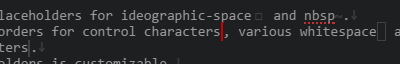
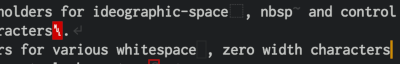
Optimize of startup time. Remove invisible characters sample from README. Fixed an issue where border disable was not reflected at startup.

diff --git a/lib/text-buffer-patch-method.js b/lib/text-buffer-patch-method.js
@@ -73,6 +73,7 @@ module.exports={
 				    .indexOf(className)==-1));
 			}
 		}
+		var class2characters={};
 		for (var character in this.invisibles)
 		{
 			this.invisibles[character].classes.sort();
@@ -89,8 +90,37 @@ module.exports={
 					break;
 				}
 			}
-			this.invisibles[character].id=index;
+			this.invisibles[character].flags=index;
 			this.classes[index]=classes;
+			
+			for (var i=0;i<=this.invisibles[character].classes.length-1;i++)
+			{
+				var class1=this.invisibles[character].classes[i];
+				if (class2characters[class1]==null)
+				{
+					class2characters[class1]=[];
+				}
+				class2characters[class1].push(character);
+			}
+		}
+		
+		var stylePath=require.resolve(
+		    "./text-buffer-patch-method.less");
+		this.subscription.add(
+		    atom.styles.addStyleSheet(
+		        atom.themes.loadStylesheet(stylePath,true),
+		        { sourcePath: stylePath })
+		);
+		var styleSheet;
+		for (var i=document.styleSheets.length-1;i>=0;i--)
+		{
+			if (document.styleSheets[i].ownerNode!=null &&
+			    document.styleSheets[i].ownerNode.sourcePath==stylePath)
+			{
+				styleSheet=document.styleSheets[i];
+				
+				break;
+			}
 		}
 		
 		var refresher=() => {};
@@ -127,15 +157,11 @@ module.exports={
 				var updater=() => {
 					var placeholder=atom.config.get(keyPath).substring(0,1);
 					
-					for (var character in this.invisibles)
+					for (var character of class2characters[config.content])
 					{
-						if (this.invisibles[character].classes.indexOf(
-						    config.content)!=-1)
-						{
-							this.invisibles[character].placeholder=
-							    (placeholder!=character && placeholder!=" "
-							    ? placeholder : null);
-						}
+						this.invisibles[character].placeholder=
+						    (placeholder!=character && placeholder!=" "
+						    ? placeholder : null);
 					}
 					
 					refresher();
@@ -163,15 +189,12 @@ module.exports={
 						var placeholder=atom.config.get(keyPath)
 						    .split(/, /g)[i];
 						
-						for (var character in this.invisibles)
+						for (var character of 
+						     (class2characters[config.contents[i]] || []))
 						{
-							if (this.invisibles[character].classes.indexOf(
-							    config.contents[i])!=-1)
-							{
-								this.invisibles[character].placeholder=
-								    (placeholder!=character && placeholder!=" "
-								    ? placeholder : null);
-							}
+							this.invisibles[character].placeholder=
+							    (placeholder!=character && placeholder!=" "
+							    ? placeholder : null);
 						}
 					}
 					
@@ -223,20 +246,17 @@ module.exports={
 			if (config.border!=null)
 			{
 				var updater=() => {
-					for (var i=document.styleSheets.length-1;i>=0;i--)
+					for (var i=0;i<=styleSheet.cssRules.length-1;i++)
 					{
-						for (var j=0;j<=document.styleSheets[i]
-						                        .cssRules.length-1;j++)
+						var cssRule=styleSheet.cssRules[i];
+						if (cssRule.selectorText==
+						    "atom-text-editor.editor "+
+						    ".invisible-character."+config.border)
 						{
-							var cssRule=document.styleSheets[i].cssRules[j];
-							if (cssRule.selectorText=="atom-text-editor.editor "+
-							    ".invisible-character."+config.border)
-							{
-								cssRule.style["borderStyle"]=
-								    (atom.config.get(keyPath) ? "solid" : "none");
-								
-								return;
-							}
+							cssRule.style["borderStyle"]=
+							    (atom.config.get(keyPath) ? "solid" : "none");
+							
+							return;
 						}
 					}
 				};
@@ -284,13 +304,6 @@ module.exports={
 			    atom.grammars.grammarAddedOrUpdated(grammar));
 		};
 		
-		var stylePath=require.resolve(
-		    "./text-buffer-patch-method.less");
-		this.subscription.add(
-		    atom.styles.addStyleSheet(
-		    atom.themes.loadStylesheet(stylePath,true),{ sourcePath: stylePath })
-		);
-		
 		var showInvisiblesPlus=this;
 		this.subscription.add(
 		    atom.workspace.observeTextEditors((textEditor) => {
@@ -325,7 +338,8 @@ module.exports={
 						this.currentBuiltInClassNameFlags|=(1 << 2);
 					}
 					this.currentBuiltInClassNameFlags|=(
-					    showInvisiblesPlus.invisibles[nextCharacter].id << 3);
+					    showInvisiblesPlus.invisibles[nextCharacter].flags
+					    << 3);
 				}
 			};
 			screenLineBuilder.getBuiltInScopeId=function(flags) {

diff --git a/README.md b/README.md
@@ -6,8 +6,8 @@ More show invisibles.
 
 ### Features
 
-- Show customizable placeholders for ideographic-space　, nbsp  and control characters.
-- Show borders for various whitespace , zero width characters and control characters.
+- Show customizable placeholders for ideographic-space, nbsp and control characters.
+- Show borders for various whitespace, zero width characters and control characters.
 - Option to show only the selected area.
 - Better performance independent of file size.
 

diff --git a/CHANGELOG.md b/CHANGELOG.md
@@ -1,3 +1,8 @@
+## 0.5.1 - 2021/12/22
+* Optimize of startup time.
+* Remove invisible characters sample from README.
+* Fixed an issue where border disable was not reflected at startup.
+
 ## 0.5.0 - 2021/12/21
 * New implementation by patching text-buffer, when tree-sitter is enabled.
 * New option to set placeholders for Cr+Eol(CRLF).
